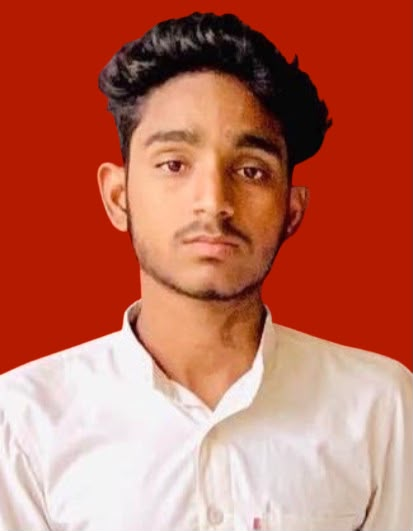
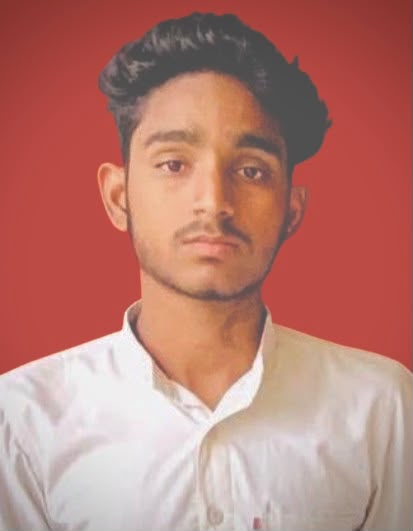
Update profile/certificate photo and enlarge public certificate layout
- Replace user photo with newimg2.jpeg across dashboard, verify, and public cert pages
- Update stored student photos (uploads + public cert-photos)
- Enlarge and restyle public certificate card (sizing, spacing, photo frame)
- Set verify photo endpoints to no-store caching
- Point public certificate login link to lords.digiicampus.com/V2/#/home

diff --git a/client/src/pages/Verify.jsx b/client/src/pages/Verify.jsx
@@ -36,7 +36,7 @@ export default function Verify() {
 
   return (
     <div className="min-h-screen bg-gray-100 flex items-center justify-center p-4">
-      <div className="bg-white rounded-2xl shadow-lg w-full max-w-md p-8">
+      <div className="bg-white rounded-2xl shadow-lg w-full max-w-2xl p-12">
 
         {/* Loading */}
         {loading && (
@@ -63,15 +63,15 @@ export default function Verify() {
         {!loading && !error && data && (
           <>
             {/* University Header */}
-            <div className="text-center mb-5">
+            <div className="text-center mb-6">
               <h1
-                className="text-3xl font-black leading-tight tracking-widest"
+                className="text-5xl font-black leading-tight tracking-widest"
                 style={{ color: '#5C1A1A', fontFamily: 'Georgia, serif' }}
               >
                 LORDS
               </h1>
               <h2
-                className="text-xl font-bold tracking-widest"
+                className="text-3xl font-bold tracking-widest"
                 style={{ color: '#5C1A1A', fontFamily: 'Georgia, serif' }}
               >
                 UNIVERSITY
@@ -79,27 +79,27 @@ export default function Verify() {
             </div>
 
             {/* Divider */}
-            <div className="border-t border-gray-200 mb-5" />
+            <div className="border-t border-gray-200 mb-6" />
 
             {/* Subtitle */}
-            <div className="text-center mb-5">
-              <p className="text-gray-800 font-semibold text-sm">Lords University</p>
-              <p className="text-gray-500 text-xs mt-1 leading-relaxed">
+            <div className="text-center mb-10">
+              <p className="text-gray-800 font-normal text-5xl">Lords University</p>
+              <p className="text-gray-500 font-light text-3xl mt-6 leading-loose">
                 Alwar-Bhiwadi Highway, Chikani, Alwar,<br />
                 Rajasthan, India - 301028.
               </p>
-              <p className="text-red-500 font-semibold text-sm mt-4">
+              <p className="text-red-500 font-normal text-4xl mt-8 leading-relaxed">
                 Degree Certificate for QR Code Verification
               </p>
             </div>
 
             {/* Student Photo — large round, left-aligned like photo 4 */}
-            <div className="mb-6 pl-1">
+            <div className="mb-7 pl-1">
               {data.photoUrl ? (
                 <img
                   src={data.photoUrl}
                   alt={data.name}
-                  className="w-20 h-20 rounded-full object-cover object-top border-2 border-gray-300 shadow"
+                  className="w-40 h-40 rounded-full object-cover object-top border-2 border-gray-300 shadow"
                   onError={(e) => {
                     // fallback to initials if photo fails to load
                     e.target.style.display = 'none'
@@ -109,17 +109,17 @@ export default function Verify() {
               ) : null}
               {/* Fallback initials circle */}
               <div
-                className="w-20 h-20 rounded-full bg-blue-100 flex items-center justify-center border-2 border-gray-300 shadow"
+                className="w-40 h-40 rounded-full bg-blue-100 flex items-center justify-center border-2 border-gray-300 shadow"
                 style={{ display: data.photoUrl ? 'none' : 'flex' }}
               >
-                <span className="text-blue-600 font-bold text-2xl">
+                <span className="text-blue-600 font-bold text-5xl">
                   {data.name?.[0] || 'S'}
                 </span>
               </div>
             </div>
 
             {/* Details list — exactly like photo 4 */}
-            <div className="space-y-3 text-sm">
+            <div className="space-y-8 text-3xl">
               <DetailRow label="Name"            value={data.name}           isBlue />
               <DetailRow label="Registration Id" value={data.registrationId} />
               <DetailRow label="Programme"       value={data.programme}      />
@@ -129,8 +129,8 @@ export default function Verify() {
             </div>
 
             {/* Permission note */}
-            <div className="mt-6 pt-4 border-t border-gray-100">
-              <p className="text-xs text-gray-500 italic text-center leading-relaxed">
+            <div className="mt-10 pt-8 border-t border-gray-100">
+              <p className="text-2xl font-light text-gray-500 italic text-center leading-loose">
                 You don't have permission to view certificate,{' '}
                 <button
                   onClick={() => navigate('/login')}
@@ -150,9 +150,9 @@ export default function Verify() {
 
 function DetailRow({ label, value, isBlue }) {
   return (
-    <div className="flex gap-2">
-      <span className="font-bold text-gray-800 min-w-[130px] shrink-0">{label} :</span>
-      <span className={isBlue ? 'text-blue-600 font-medium' : 'text-gray-700'}>
+    <div className="flex gap-4">
+      <span className="font-medium text-gray-800 min-w-[260px] shrink-0">{label} :</span>
+      <span className={isBlue ? 'text-blue-600 font-normal' : 'text-gray-700 font-light'}>
         {value || '-'}
       </span>
     </div>

diff --git a/client/src/pages/PublicCertificate.jsx b/client/src/pages/PublicCertificate.jsx
@@ -117,8 +117,8 @@ const shortProgramme = (p) => {
 
 export function CertificateCard({ data, loading, error }) {
   return (
-    <div className="min-h-screen bg-gray-100 flex items-center justify-center p-4">
-      <div className="bg-white rounded-2xl shadow-lg w-full max-w-md p-8">
+    <div className="min-h-screen bg-gray-100 flex justify-center p-4 overflow-y-auto">
+      <div className="bg-white rounded-2xl shadow-lg w-full max-w-md px-8 pt-4 pb-8 self-start">
 
         {loading && (
           <div className="flex flex-col items-center gap-4 py-12">
@@ -139,14 +139,14 @@ export function CertificateCard({ data, loading, error }) {
         {!loading && !error && data && (
           <>
             {/* University logo header */}
-            <div className="flex justify-center mb-11">
+            <div className="flex justify-center -mt-2 mb-14">
               <img src={logo} alt="Lords University" className="h-14 w-auto object-contain" />
             </div>
 
             {/* University name + address + title */}
             <div className="text-center mb-5">
-              <p className="text-gray-800 font-bold text-sm">Lords University</p>
-              <p className="text-gray-500 text-xs mt-1 leading-relaxed">
+              <p className="text-gray-800 font-normal text-lg">Lords University</p>
+              <p className="text-gray-500 text-sm mt-1 leading-relaxed">
                 Alwar-Bhiwadi Highway, Chikani, Alwar,<br />
                 Rajasthan, India - 301028.
               </p>
@@ -156,12 +156,13 @@ export function CertificateCard({ data, loading, error }) {
             </div>
 
             {/* Student photo — round, left aligned */}
-            <div className="mb-5 pl-1">
+            <div className="mb-5 -ml-2">
               {data.photoUrl ? (
                 <img
                   src={data.photoUrl}
                   alt={data.name}
-                  className="w-16 h-16 rounded-full object-cover object-top border-2 border-gray-200 shadow"
+                  className="w-24 h-24 rounded-full object-cover border-2 border-gray-200"
+                  style={{ objectPosition: 'center 25%' }}
                   onError={(e) => {
                     e.target.style.display = 'none'
                     e.target.nextSibling.style.display = 'flex'
@@ -169,17 +170,17 @@ export function CertificateCard({ data, loading, error }) {
                 />
               ) : null}
               <div
-                className="w-16 h-16 rounded-full bg-blue-100 flex items-center justify-center border-2 border-gray-200 shadow"
+                className="w-24 h-24 rounded-full bg-blue-100 flex items-center justify-center border-2 border-gray-200"
                 style={{ display: data.photoUrl ? 'none' : 'flex' }}
               >
-                <span className="text-blue-600 font-bold text-xl">
+                <span className="text-blue-600 font-bold text-3xl">
                   {data.name?.[0] || 'S'}
                 </span>
               </div>
             </div>
 
             {/* Details list */}
-            <div className="space-y-2 text-xs">
+            <div className="space-y-3 text-sm -ml-4">
               <DetailRow label="Name"            value={data.name}           isBlue />
               <DetailRow label="Registration Id" value={data.registrationId} />
               <DetailRow label="Programme"       value={shortProgramme(data.programme)} />
@@ -193,7 +194,7 @@ export function CertificateCard({ data, loading, error }) {
               <p className="text-xs text-gray-500 italic text-center leading-relaxed">
                 You don&apos;t have permission to view certificate,{' '}
                 <a
-                  href={loginUrl}
+                  href="https://lords.digiicampus.com/V2/#/home"
                   className="text-red-500 underline italic font-medium"
                 >
                   click here
@@ -211,10 +212,10 @@ export function CertificateCard({ data, loading, error }) {
 function DetailRow({ label, value, isBlue, nowrap }) {
   return (
     <div className="flex gap-2">
-      <span className="font-bold text-gray-800 min-w-[105px] shrink-0">{label} :</span>
+      <span className="font-medium text-gray-800 min-w-[115px] shrink-0">{label} :</span>
       <span
         className={[
-          isBlue ? 'text-blue-500 font-medium' : 'text-gray-700',
+          isBlue ? 'text-blue-500 font-normal' : 'text-gray-700 font-light',
           nowrap ? 'whitespace-nowrap' : '',
         ].join(' ')}
       >

diff --git a/server/routes/verify.js b/server/routes/verify.js
@@ -74,7 +74,7 @@ router.get('/cert-photo', async (req, res) => {
     if (!photoPath) return res.status(404).json({ message: 'Photo not found.' })
 
     res.setHeader('Content-Type', 'image/jpeg')
-    res.setHeader('Cache-Control', 'private, max-age=300')
+    res.setHeader('Cache-Control', 'no-store')
     res.sendFile(photoPath)
   } catch {
     res.status(401).json({ message: 'Invalid certificate id.' })
@@ -168,7 +168,7 @@ router.get('/photo/:regId', async (req, res) => {
     if (!photoPath) return res.status(404).json({ message: 'Photo not found.' })
 
     res.setHeader('Content-Type', 'image/jpeg')
-    res.setHeader('Cache-Control', 'private, max-age=300')
+    res.setHeader('Cache-Control', 'no-store')
     res.sendFile(photoPath)
   } catch {
     res.status(401).json({ message: 'Invalid token.' })

diff --git a/client/src/pages/Dashboard.jsx b/client/src/pages/Dashboard.jsx
@@ -9,7 +9,7 @@ import {
   Award, RotateCcw, ClipboardList, Info, ExternalLink, Headphones
 } from 'lucide-react'
 import logo from '../assets/logo.png'
-import userPhoto from '../assets/newuserdp.jpeg'
+import userPhoto from '../assets/newimg2.jpeg'
 
 const authGet = (path) => {
   const token = localStorage.getItem('token')
